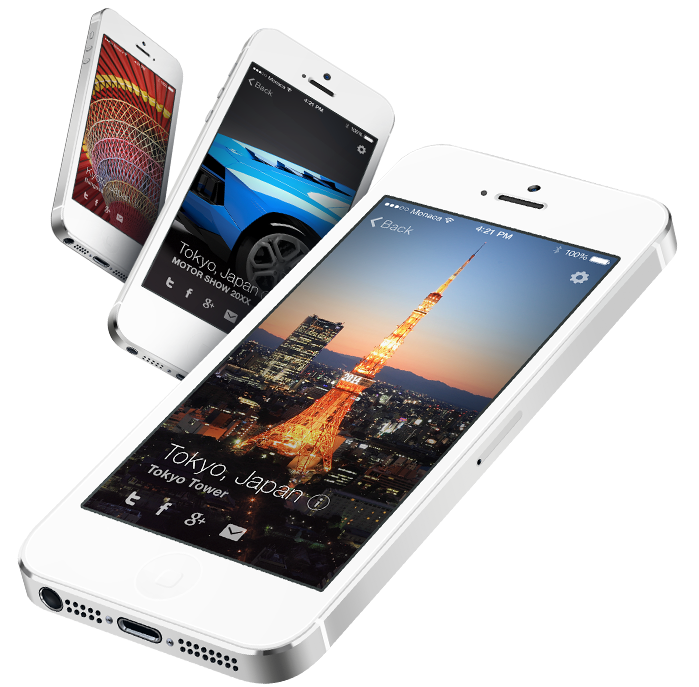
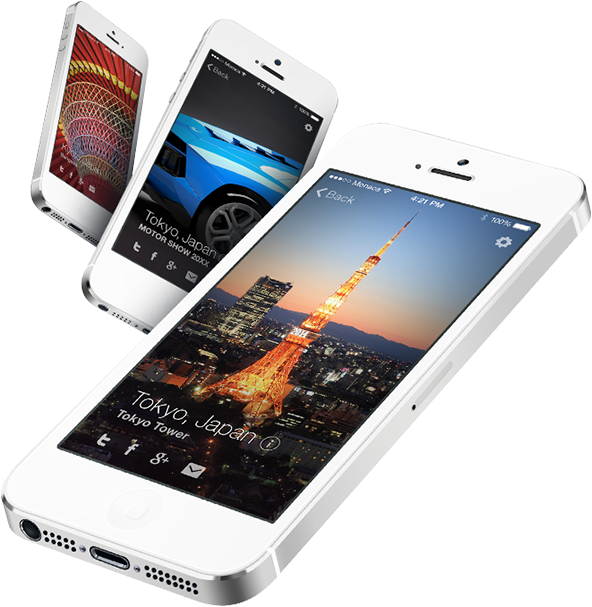
Refined japanese website design and keyvisual layout.

Changed region(s): [[0.0304, 0.0, 1.0, 0.9193], [0.0, 0.8007, 0.4257, 1.0]]

diff --git a/src/css/_page_index.scss b/src/css/_page_index.scss
@@ -19,7 +19,7 @@ body#home {
 
   div#keyvisual {
     width: 100%;
-    height: 744px;
+    height: 660px;
     background-color: #fff;
     @include background-image(linear-gradient(top, #fff, #f3f5f6));
     position: relative;
@@ -27,20 +27,20 @@ body#home {
 
     > div.keyvisual-content {
       width: 1200px;
-      height: 771px;
+      height: 660px;
       background-repeat: no-repeat;
       background-image: url(/images/index/keyvisual.png);
-      background-position: right top;
+      background-position: right 20px;
       position: absolute;
       left: 50%;
       top: 50%;
-      margin-top: -400px;
+      margin-top: -330px;
       margin-left: -600px;
     }
 
     > div.keyvisual-content > div.keyvisual-main {
       margin: 0 auto;
-      padding: 200px 0 0 0;
+      padding: 160px 0 0 0;
       width: 1100px;
       max-width: 100%;
 
@@ -56,7 +56,7 @@ body#home {
       > h2 {
         font-size: 26px;
         font-weight: 200;
-        margin: 0 0 100px 0;
+        margin: 10px 0 40px 0;
         padding: 0;
         font-family: 'pragmatica-web', 'Helvetica Neue', Helvetica, sans-serif;
         color: #606978;
@@ -109,7 +109,7 @@ body#home {
         display: inline-table;
         height: 54px;
         line-height: 54px;
-        width: 213px;
+        width: auto;
         border: 2px solid #d3d6d9;
         @include border-radius(3px);
         color: #767c86;
@@ -117,6 +117,7 @@ body#home {
         font-size: 24px;
         text-align: center;
         text-decoration: none;
+        padding: 0 12px;
         @include transition(all 0.5s ease);
 
         &:hover {
